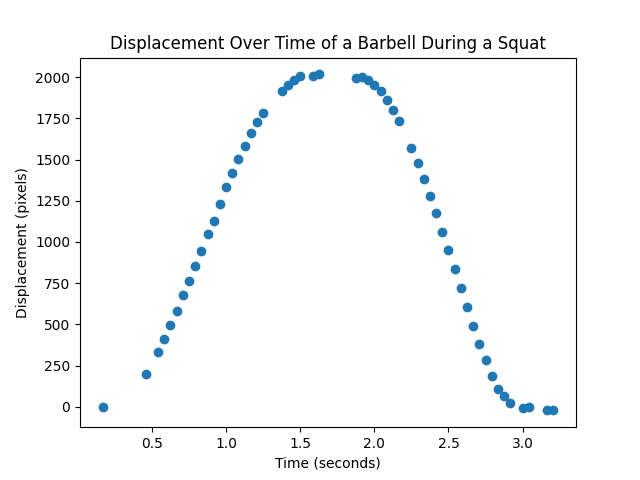
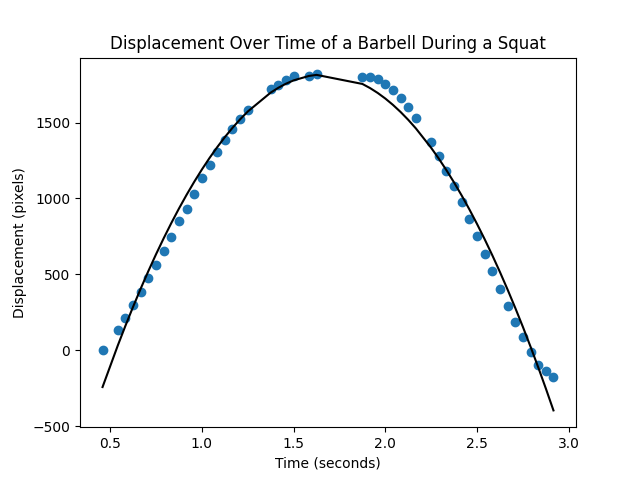
adds velocity and acceleration to the graph

diff --git a/src/calc.py b/src/calc.py
@@ -1,14 +1,13 @@
+from turtle import color
 import matplotlib.pyplot as plt
 from typing import Any, List, Tuple, Dict
 import numpy as np
 
 def analyze_points(point_dict: Dict[np.signedinteger, Tuple[int, int]]):
-    print(len(point_dict))
-    print(point_dict)
-
     x_vals, y_vals = [], []
     time_vals = []
     for key, val in point_dict.items():
+        if key < 0.4 or key > 3: continue
         time_vals.append(key)
         x_vals.append(val[0])
         y_vals.append(val[1])
@@ -16,67 +15,22 @@ def analyze_points(point_dict: Dict[np.signedinteger, Tuple[int, int]]):
     y_disp = [y - y_vals[0] for y in y_vals]
 
     plt.xlabel("Time (seconds)")
-    plt.ylabel("Displacement (pixels)")
-    plt.title("Displacement Over Time of a Barbell During a Squat")
+    plt.title("Tracking a Barbell During a Squat")
     plt.scatter(time_vals, y_disp)
 
+    # line of best fit: ax^2 + bx + c
+    a, b, c = np.polyfit(time_vals, y_disp, 2)
+    print(f"{a}x^2 + {b}x + {c}")
+
+    lbf_vals = [ (a * (x**2) + (b * x) + c) for x in time_vals ]
+    plt.plot(time_vals, lbf_vals, color='black', label='Displacement')
+
+    # velocity function (1st derivative)
+    velocity_vals = [((2 * a * x) + 4703) for x in time_vals]
+    plt.plot(time_vals, velocity_vals, color='purple', label='Velocity')
+
+    acc_vals = [ 2 * a for _ in time_vals ]
+    plt.plot(time_vals, acc_vals, color='orange', label='Acceleration')
+
+    plt.legend(loc='upper left')
     plt.show()
-
-    # x_vals, y_vals = map(list, zip(*points)) # https://stackoverflow.com/questions/68783326/unpack-list-of-list-python
-    # start_x, start_y = x_vals[0], y_vals[0]
-
-    # # find the x and y displacement, the distance from the origin
-    # x_disp, y_disp = [x - start_x for x in x_vals], [y - start_y for y in y_vals]
-    # print(len(x_disp))
-    # print(len(y_disp))
-
-    # max_y = 0
-    # max_y_index = 0, 0
-    # for i, y in enumerate(y_disp):
-    #     if y > max_y:
-    #         max_y = y
-    #         max_y_index = i
-
-    # # ----------------------DESCENT----------------------
-    # # descent of a squat is from the beginning to the highest y-value
-    # y_descent = y_disp[0: max_y_index]
-
-    # # uses max_y_index because the descent points need to have the same length
-    # x_descent = x_disp[0: max_y_index] 
-    
-    # # @params = 2 rows, 1 column, and this is the first (aka top) graph
-    # plt.subplot(3, 1, 1)
-    # plt.title("Filtered Squat Descent")
-    # plt.scatter(x_descent, y_descent)
-
-    # m, b = np.polyfit(x_descent, y_descent, 1)
-    # y_descent = []
-    # for elem in x_descent:
-    #     x = np.float64(elem)
-    #     y_descent.append((m * x) + b)
-    #     # y_descent.append((a * (x**2)) + (b * x) + c)
-
-    # plt.plot(time_vals[0 : max_y_index], y_descent, color='black')
-
-    # # ----------------------ASCENT----------------------
-    # # ascent of a squat is from the highest y-value (lowest point) back to the top
-    # y_ascent = y_disp[max_y_index : ]
-
-    # # uses max_y_index because the descent points need to have the same length
-    # x_ascent = x_disp[max_y_index : ] 
-    
-    # # @params = 2 rows, 1 column, and this is the first (aka top) graph
-    # plt.subplot(3, 1, 3)
-    # plt.title("Filtered Squat Ascent")
-    # plt.scatter(x_ascent, y_ascent)
-
-    # m, b = np.polyfit(x_ascent, y_ascent, 1)
-    # y_ascent = []
-    # for elem in x_descent:
-    #     x = np.float64(elem)
-    #     y_ascent.append((m * x) + b)
-    #     # y_descent.append((a * (x**2)) + (b * x) + c)
-    
-    # plt.plot(time_vals[max_y_index : ], y_ascent, color='black')
-    
-    # plt.show()
